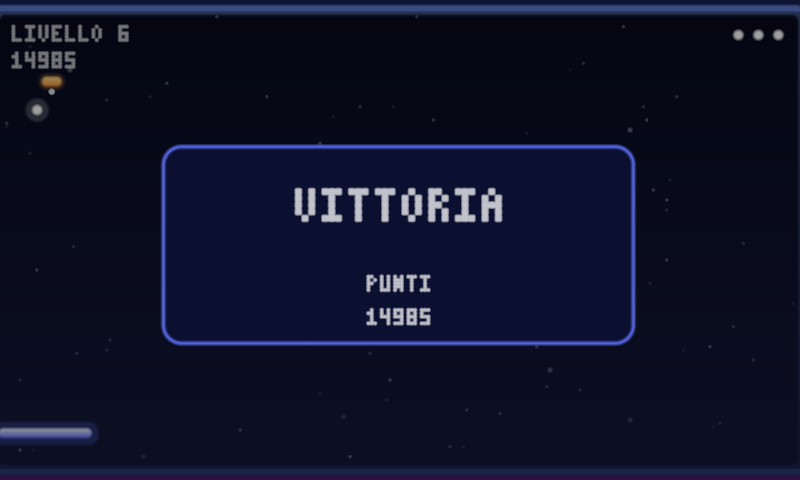
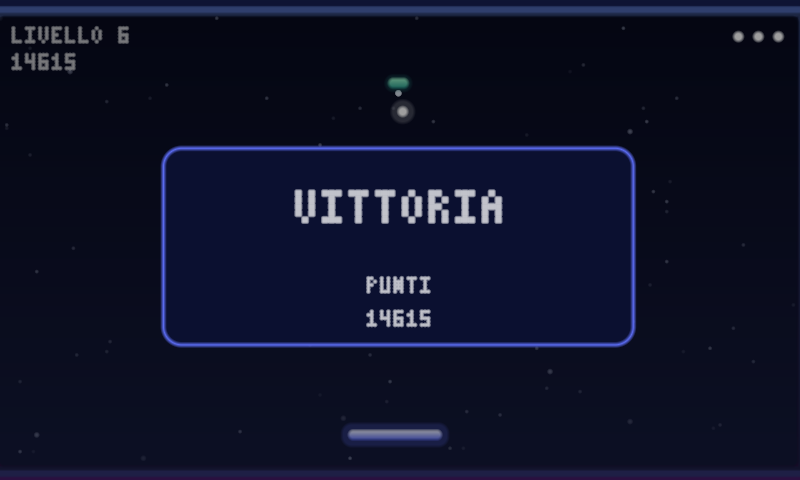
Wilkanoid v2: playtest round 2 fixes
Multi-ball copies now move in distinct directions. Centre paddle hits pick a
random angle, removing the periodic orbit that stalled some seeds on level 4.
Level 2 gains a steel brick. Frame drawn as four strips. Tone constants named.
Bot sweep test covers 40 seeds.

Claude-Session: https://claude.ai/code/session_01AVhvvKEf1rvKF1AvUztBjZ

diff --git a/games/wilkanoid/src/lib.rs b/games/wilkanoid/src/lib.rs
@@ -43,6 +43,9 @@ pub const STEEL: u8 = 2;
 pub const CRACKED: u8 = 3;
 /// Mattone esplosivo: distrugge i vicini quando cade.
 pub const BOMB: u8 = 4;
+/// Tono delle particelle: indice riga per i mattoni normali, poi acciaio ed esplosivo.
+pub const TONE_STEEL: u8 = 6;
+pub const TONE_BOMB: u8 = 7;
 
 /// Power-up che cadono.
 pub const DROP_WIDE: u8 = 0;
@@ -51,7 +54,7 @@ pub const DROP_MULTI: u8 = 1;
 /// Livelli: '0' vuoto, '1' normale, '2' acciaio (due colpi), '4' esplosivo.
 pub const LEVELS: [[&[u8; COLS]; ROWS]; 6] = [
     [b"111111111", b"111111111", b"111111111", b"121111121", b"111111111", b"111111111"],
-    [b"000010000", b"000111000", b"001111100", b"011111110", b"111111111", b"101010101"],
+    [b"000020000", b"000111000", b"001111100", b"011111110", b"111111111", b"101010101"],
     [b"222022022", b"111111111", b"202020202", b"111111111", b"222222222", b"010101010"],
     [b"000020000", b"000222000", b"002222200", b"022222220", b"222222222", b"022222220"],
     [b"111010111", b"011414110", b"110111011", b"111010111", b"011111110", b"111111111"],
@@ -84,7 +87,7 @@ pub struct Ball {
     pub vy: i32,
 }
 
-/// Particella di distruzione. `tone` = indice riga, 6 = acciaio.
+/// Particella di distruzione. `tone` = indice riga, `TONE_STEEL` o `TONE_BOMB`.
 #[derive(Clone, Copy, Default)]
 pub struct Part {
     pub x: i32,
@@ -353,6 +356,7 @@ impl Game {
     fn step_ball(&mut self, b: Ball) -> Option<Ball> {
         let (px, py) = (b.x, b.y);
         let (mut x, mut y, mut vx, mut vy) = (px + b.vx, py + b.vy, b.vx, b.vy);
+        let vx_in = b.vx;
         let top = PAD_Y * SUB;
 
         if x < BALL_R {
@@ -380,7 +384,10 @@ impl Game {
             vy = -self.speed();
             vx = ((x - self.paddle) * VX_MAX / half).clamp(-VX_MAX, VX_MAX);
             if vx.abs() < VX_MIN {
-                vx = if x < self.paddle { -VX_MIN } else { VX_MIN };
+                // Colpo al centro: angolo casuale, così la palla non entra in un'orbita periodica.
+                let side = if x == self.paddle { vx_in.signum() } else if x < self.paddle { -1 } else { 1 };
+                let side = if side == 0 { 1 } else { side };
+                vx = side * (VX_MIN + (self.rand() % 6) as i32);
             }
         }
 
@@ -439,8 +446,8 @@ impl Game {
                 self.shake = self.shake.max(4);
                 let tone = match cell {
                     NORMAL => r as u8,
-                    BOMB => 7,
-                    _ => 6,
+                    BOMB => TONE_BOMB,
+                    _ => TONE_STEEL,
                 };
                 let (mx, my) = (bx0 + BW / 2 * SUB, by0 + BH / 2 * SUB);
                 self.burst(mx, my, tone);
@@ -475,7 +482,7 @@ impl Game {
                 self.cells[rr][cc] = EMPTY;
                 self.flash[rr][cc] = FLASH_TICKS;
                 let (mx, my) = ((BX0 + cc as i32 * (BW + BGX)) * SUB + BW / 2 * SUB, (BY0 + rr as i32 * (BH + BGY)) * SUB + BH / 2 * SUB);
-                self.burst(mx, my, 7);
+                self.burst(mx, my, TONE_BOMB);
             }
         }
         self.shake = self.shake.max(10);
@@ -507,9 +514,9 @@ impl Game {
     /// Multipalla: copia la palla di riferimento in due direzioni, fino a `MAX_BALLS`.
     fn spawn_extra_balls(&mut self) {
         let Some(b) = self.lead() else { return };
-        for sign in [-1, 1] {
+        for vx in [-VX_MAX / 2, VX_MAX / 2] {
             if let Some(slot) = self.balls.iter_mut().find(|s| s.is_none()) {
-                *slot = Some(Ball { vx: -b.vx * sign, ..b });
+                *slot = Some(Ball { vx, ..b });
             }
         }
     }
@@ -577,5 +584,25 @@ mod tests {
         g.balls[0] = Some(Ball { x: BALL_R + 1, y: 100 * SUB, vx: -VY, vy: 0 });
         g.tick();
         assert!(g.lead().map_or(false, |b| b.vx > 0));
+    }
+}
+
+#[cfg(test)]
+mod seed_sweep {
+    use super::*;
+
+    #[test]
+    fn bot_wins_many_seeds() {
+        for seed in 1..=40u32 {
+            let mut g = Game::new(seed);
+            g.input(Cmd::Fire);
+            for _ in 0..400_000 {
+                if matches!(g.phase, Phase::Won | Phase::Over) {
+                    break;
+                }
+                autoplay(&mut g);
+            }
+            assert_eq!(g.phase, Phase::Won, "seed {seed} bloccato al livello {}", g.level + 1);
+        }
     }
 }

diff --git a/games/wilkanoid/src/render.rs b/games/wilkanoid/src/render.rs
@@ -249,7 +249,7 @@ impl<'a> Cv<'a> {
 
 fn tone_col(t: u8) -> u32 {
     match t {
-        7 => BOMB_T,
+        t if t == crate::TONE_BOMB => BOMB_T,
         _ if (t as usize) < ROWS => ROW[t as usize],
         _ => STEEL_T,
     }
@@ -279,7 +279,11 @@ pub fn render(g: &Game, px: &mut [u32], w: usize, h: usize) {
     let ph = PH as f32;
     let sub = SUB as f32;
 
-    c.rr(-3.0, -3.0, pw + 3.0, ph + 3.0, 4.0, FRAME_T, FRAME_B);
+    // Cornice: solo quattro strisce sottili (il campo copre il resto).
+    c.rr(-3.0, -3.0, pw + 3.0, 0.0, 0.5, FRAME_T, FRAME_T);
+    c.rr(-3.0, ph, pw + 3.0, ph + 3.0, 0.5, FRAME_B, FRAME_B);
+    c.rr(-3.0, 0.0, 0.0, ph, 0.5, FRAME_T, FRAME_B);
+    c.rr(pw, 0.0, pw + 3.0, ph, 0.5, FRAME_T, FRAME_B);
     c.rr(0.0, 0.0, pw, ph, 2.0, FIELD_T, FIELD_B);
 
     // Campo stellato: posizioni fisse, deterministiche.
